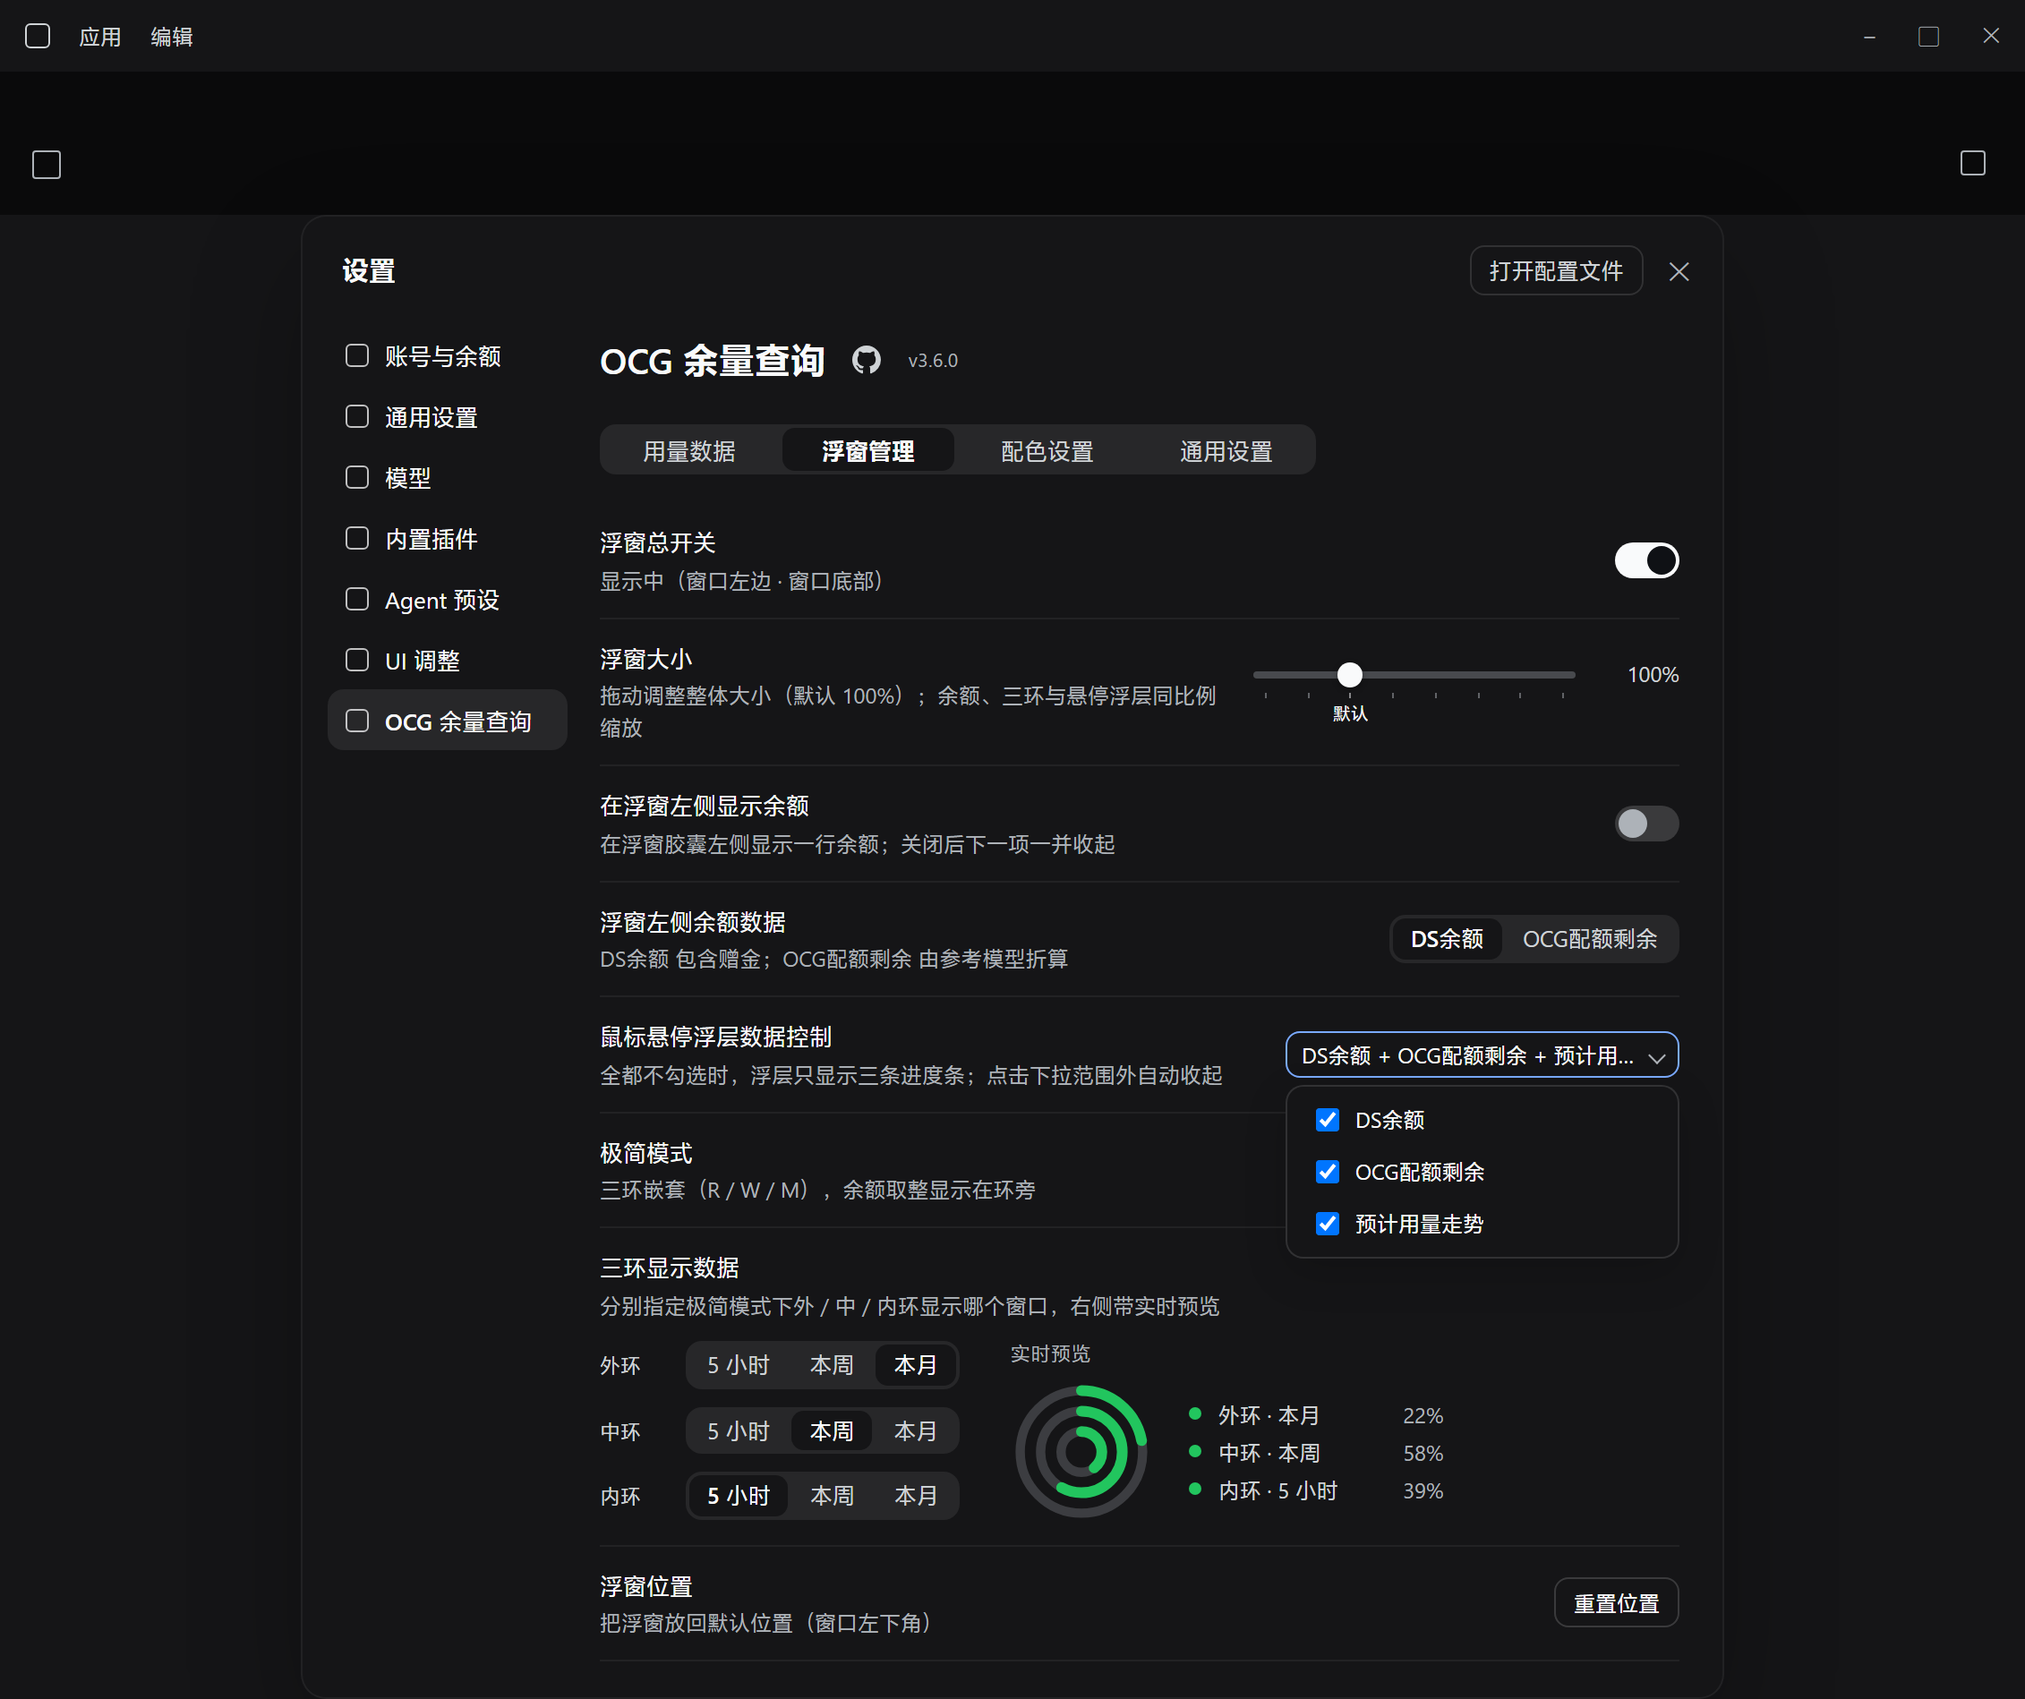
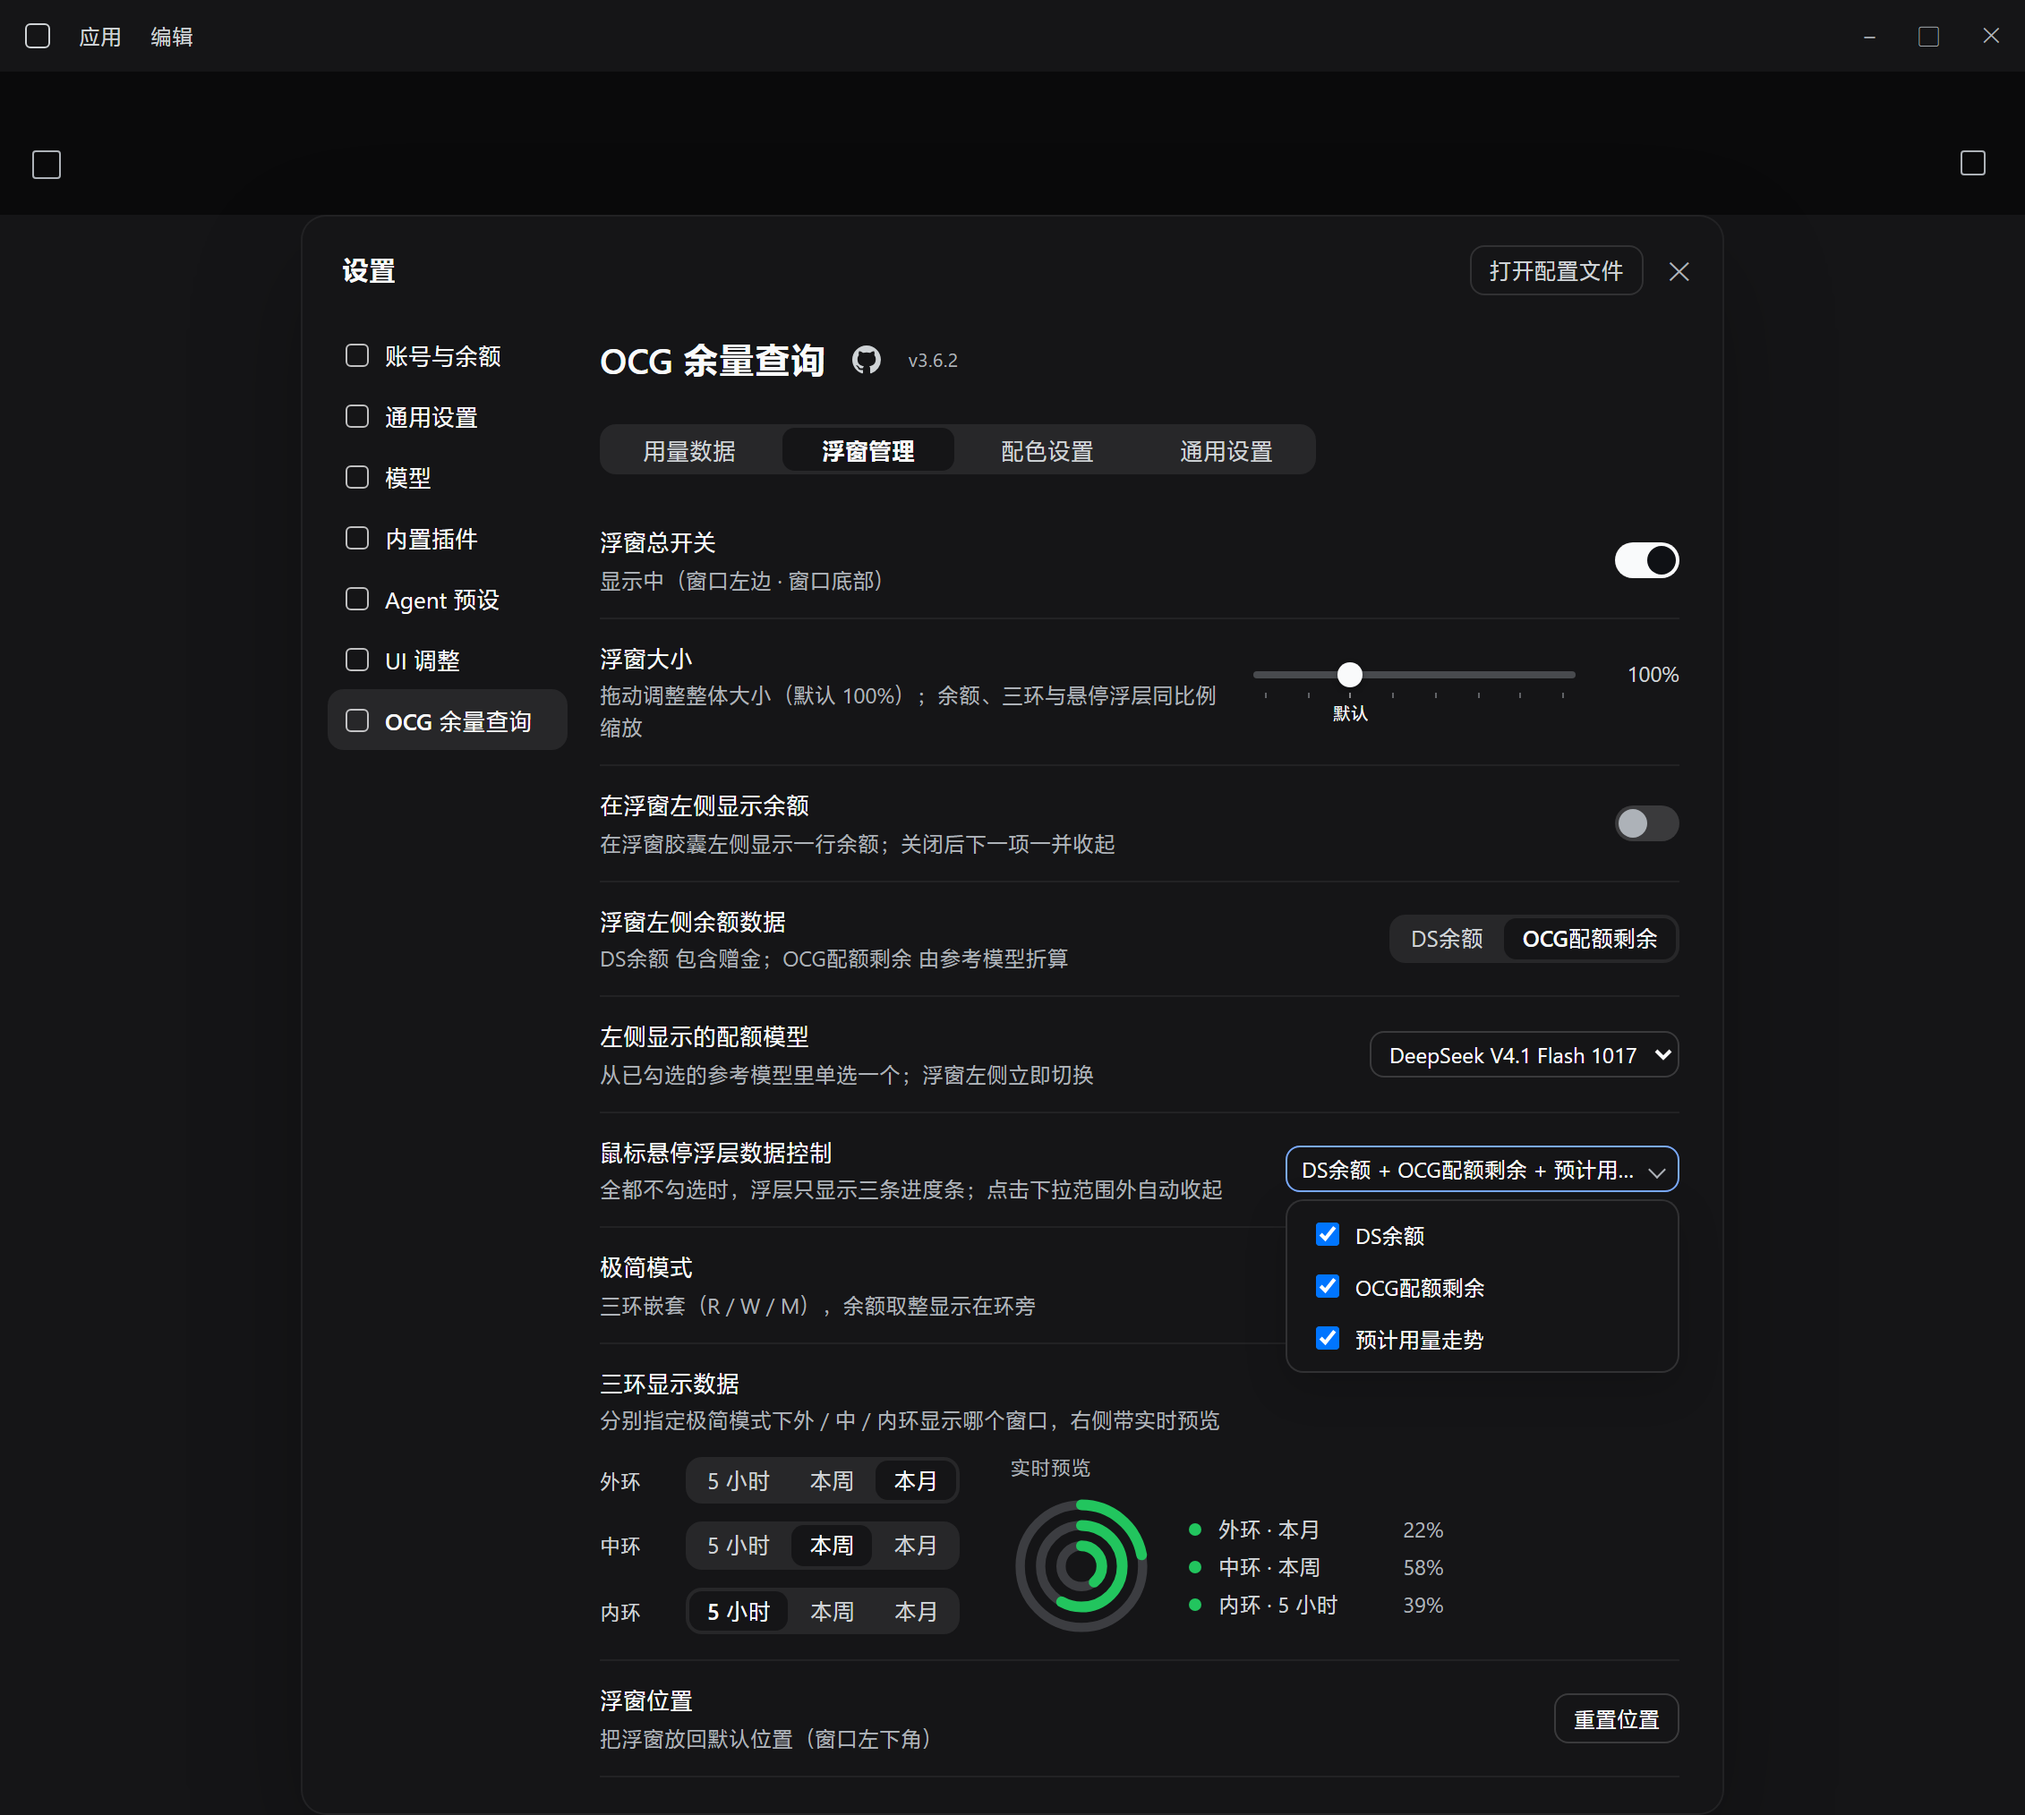
docs: refresh screenshots and snapshot notes for 3.6.2

diff --git a/README.md b/README.md
@@ -229,7 +229,7 @@ GET https://api.frankfurter.app/latest?from=USD&to=CNY      # USD/CNY rate (back
 The usage endpoint returns `{ usage: { rolling, weekly, monthly } }`, where each window carries `status` / `percent` (**used** percentage) / `resetsAt`; the balance endpoint returns `balance_infos[]` (the CNY entry is preferred). The UI shows **Used** by default and can be switched to **Left** in settings; the internal value always stays “used”.
 The host half performs the fetching and parsing (neither key ever leaves the host process); the client half only reads the configuration projection the host writes.
 
-**The model list and the rate** refresh together with everything else: **manual refresh (button or pill click) forces a refetch**, while auto-refresh reuses the **model table for 24 h and the rate for 1 h**. If both fail, the plugin falls back to its **bundled snapshot** (`go-data.js`, generated 2026-11-17: 32 official models + a rate of 6.679257) and names the failure in the UI. **Quota conversion uses the Go-tier monthly quota from that model table.**
+**The model list and the rate** refresh together with everything else: **manual refresh (button or pill click) forces a refetch**, while auto-refresh reuses the **model table for 24 h and the rate for 1 h**. If both fail, the plugin falls back to its **bundled snapshot** (`go-data.js`, generated 2026-11-26: 37 official models + a rate of 6.678179) and names the failure in the UI. **Quota conversion uses the Go-tier monthly quota from that model table.**
 
 **Key resolution** (independent per side, in priority order):
 
@@ -308,7 +308,7 @@ The settings page covers the common options; the fields below can also be edited
 - **Interface language**: the pill and the settings page are **bilingual (Chinese / English)** and follow the DSH language setting. **Error details** produced by the API layer (such as 401/403 or an unexpected response shape) are still in Chinese.
 - **The quota figure is an estimate**: no official endpoint exposes “how much of model X is left right now”, so the plugin estimates it as “that model's **Go-tier** monthly quota × **this month's used percentage**” — for reference only. The monthly percentage is the **whole plan's** progress, not that model's own share. The **Go Plus tier is not covered yet** (the Go tier is always used).
 - **The rate only affects display**: the DS balance is originally in CNY and the quota in USD; conversion is purely cosmetic (`auto` = ¥ in Chinese, ＄ in English) and never changes a real bill.
-- **The model list can lag**: the bundled snapshot is the official data of 2026-11-17; it updates with each refresh while online, and while offline (or when fetching fails) the snapshot is shown and labelled in the UI.
+- **The model list can lag**: the bundled snapshot is the official data of 2026-11-26; it updates with each refresh while online, and while offline (or when fetching fails) the snapshot is shown and labelled in the UI.
 - **Use at your own risk**: this software is provided “as is” under the MIT licence, without warranty of any kind.
 
 ## License
